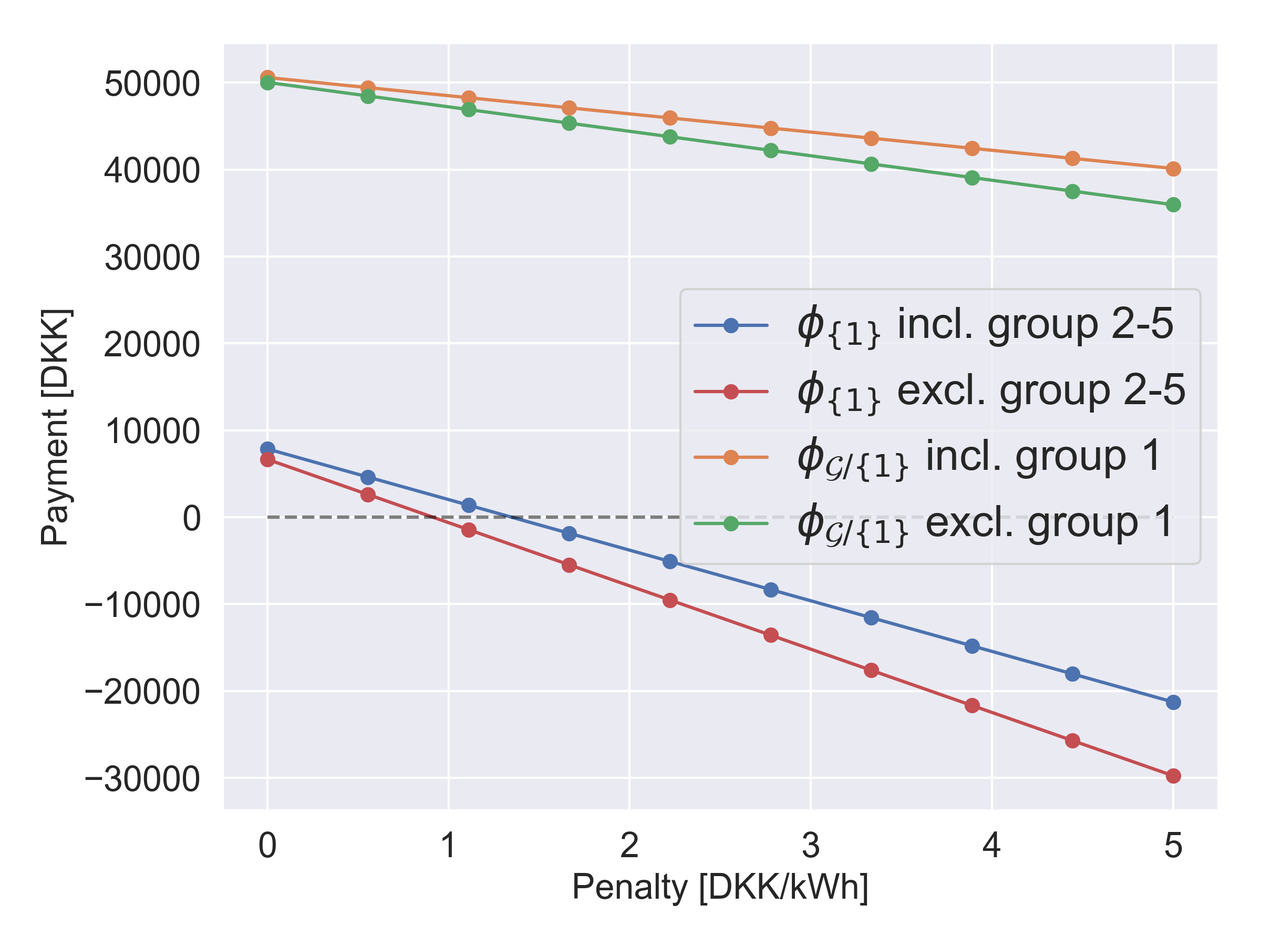
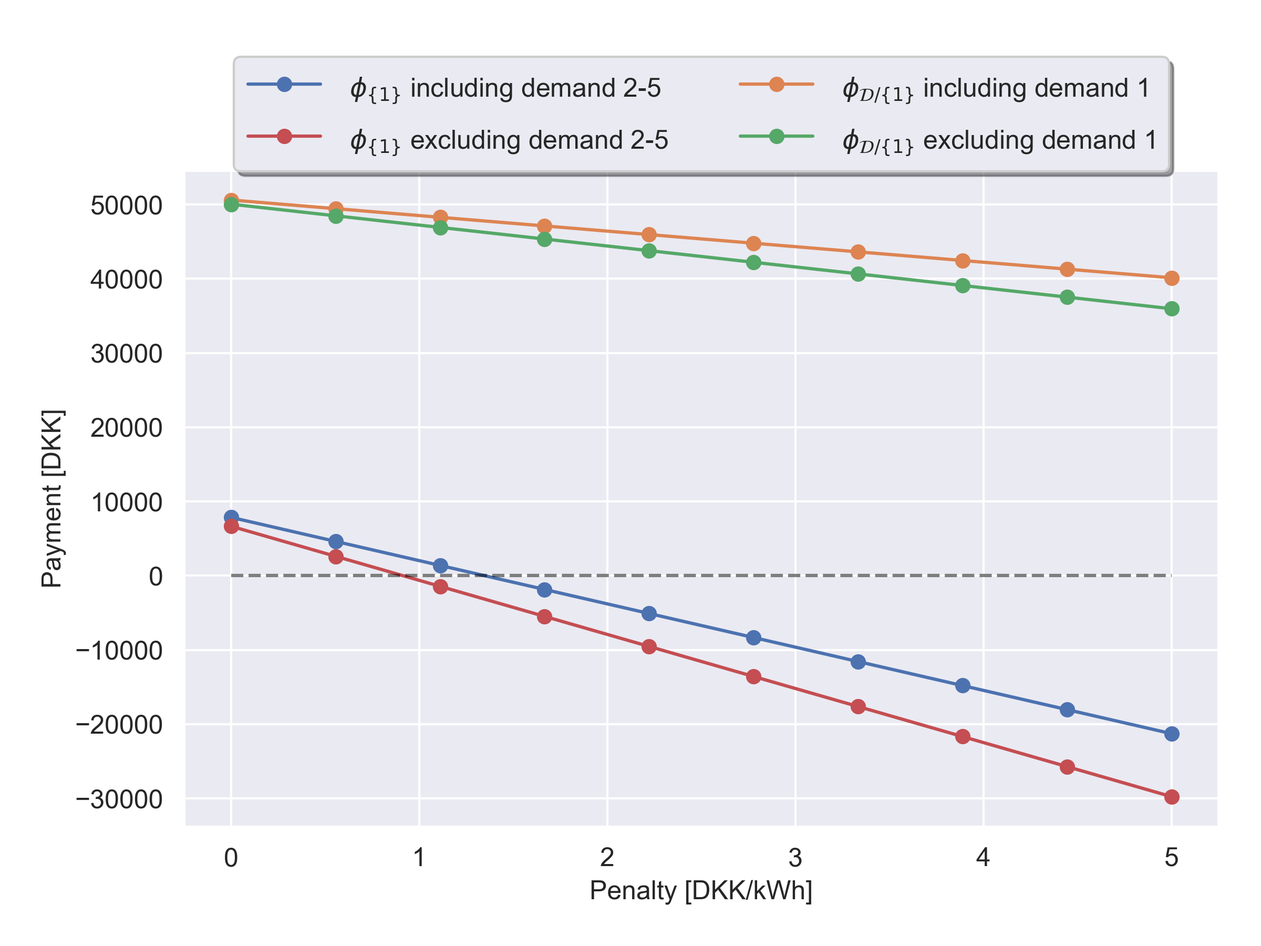
Updates from Overleaf

diff --git a/tex/ieee.tex b/tex/ieee.tex
@@ -81,7 +81,7 @@
 \subsection{Background}
 It has been extensively addressed in the literature how the aggregation of flexible demands can provide frequency-supporting ancillary services to the power system \cite{biegel2014value}, \cite{macdonald2020demand}. By ancillary services, we refer to various forms of reserves, booked by the Transmission System Operator (TSO) in advance, to activate them in the operational stage, if necessary. The key for ancillary service provision by the aggregation of flexible demands is the availability of a \textit{baseline forecast} of total consumption. The TSO should approve in advance the process adopted by the aggregation of demands for their baseline forecast. This has been prescribed in the official documentation of the Danish TSO, Energinet, issued for the pre-qualification of demand-side resources for ancillary service provision \cite{energinet:prequalification}.
 
-The aggregation of flexible demands is incentivized for at least two reasons: (\textit{i}) to meet the minimum bid size requirement, if existed, for ancillary service markets \cite{energinet:Systemydelser}, and (\textit{ii}) to unlock the potential \textit{synergy} among flexible demands. By synergy, we refer to operational circumstances under which the aggregation of flexible demands, compared to individual demands, may provide ancillary services with a higher level of reliability, i.e., a lower rate of delivery failure in the activation stage. By this, the whole aggregation is penalized less for their potential failure and paid more for their successful activation. We do not consider a case that, by aggregation, flexible demands may offer a larger volume of ancillary services. Hereafter, we refer to the aggregation of flexible demands as a \textit{coalition}, being operated by an \textit{aggregator}. Here, we consider that the aggregator represents the coalition, aiming to maximize the total profit of the coalition. The aggregator may charge flexible demands for its service, which is not part of this study.
+The aggregation of flexible demands is incentivized for at least two reasons: (\textit{i}) to meet the minimum bid size requirement, if existed, for ancillary service markets \cite{energinet:Systemydelser}, and (\textit{ii}) to unlock the potential \textit{synergy} among flexible demands. By synergy, we refer to operational circumstances under which the aggregation of flexible demands, compared to individual demands, may provide ancillary services with a higher level of reliability, i.e., a lower rate of delivery failure in the activation stage. By this, the whole aggregation is penalized less for their potential failure and paid more for their successful activation. We do not consider a case that, by aggregation, flexible demands may offer a larger volume of ancillary services. Hereafter, we refer to the aggregation of flexible demands as a \textit{coalition}, being operated by an \textit{aggregator}. Here, we consider that the aggregator represents the  coalition, and may charge flexible demands for its service, which is not part of this study.
 
 Several private initiatives for the provision of demand-side flexibility via forming coalitions  are currently taking place in Denmark. For example, IBM is developing their \textit{Flex Platform}, aiming to aggregate and control heterogeneous assets in  commercial and industrial sectors. The aggregated flexibility is then shaped as flexibility services to be sold in various ancillary service markets running by the TSO, among which the market for manual Frequency Restoration Reserve (mFRR), also known as tertiary reserve, has usually the largest trading volume. The collected profit is supposed to be allocated among flexible demands in a fair manner. In addition, flexible demands might be further incentivized by being informed about their contribution to the CO$_{2}$ savings.
 
@@ -114,11 +114,12 @@ Numerous studies in the literature explored important aspects of demand-side fle
 %
 Reference \cite{biegel2014value} investigates the value of flexible consumption but do not touch upon the synergy effect of a portfolio of assets, although it is mentioned that market barriers exist such as the minimum bidding size.
 %
-It has been shown in \cite{pedersen2014aggregation} how a portfolio of supermarkets can deliver a granular power response which is made possible by the number of supermarkets and their assets. Although it has not been explicitly mentioned, it refers to a form of synergy effect, because an aggregator requires a certain number of controllable assets to deliver a granular power response. However, the estimation and value of flexibility ex-ante is not tied together with any synergy effect. Note that  demand-side synergy is also known in other domains such as strategic and organizational diversification \cite{ye2012achieving}, but here we specifically address demand-side flexibility for ancillary services in power systems.
+It has been shown in \cite{pedersen2014aggregation} how a portfolio of supermarkets can deliver a granular power response which is made possible by the number of supermarkets and their assets. Although it has not been explicitly mentioned, it refers to a form of synergy effect, because an aggregator requires a certain number of controllable assets to deliver a granular power response. However, the estimation and value of flexibility ex-ante is not tied together with any synergy effect. Note that  demand-side synergy is also known in other domains, e.g., for strategic and organizational diversification \cite{ye2012achieving}, but here we specifically address demand-side flexibility for ancillary services in power systems.
 
 For the coalition of flexible demands, the baseline estimation is key, from which the aggregator estimates the flexible capacity, as prescribed by the Danish TSO \cite{energinet:prequalification}. Note that the coalition of flexible demands does not necessarily have an operational baseline schedule as a generation unit does \cite{gade2022ecosystem}.
 %
-In this work, we show how the baseline estimation becomes a more  straightforward task due to the synergy effect among assets within the coalition. In addition, it is important to estimate the baseline while being aware of potential counterfactual consumption when a flexible demand is activated. This problem has been studied extensively. Reference \cite{ziras2021baselines} explains why baselines are not necessarily suited for harnessing flexibility in the distribution grid, whereas \cite{capacity_limitation_services} instead shows how a mechanism based on capacity limitation services may work more successfully in practice. Nonetheless, for the TSO-level ancillary services aiming to instantaneously balance total production and total demand in the entire system, the baseline approach is generally adopted as a common practice. Some studies have proposed more innovative mechanisms as alternatives. For example,  \cite{muthirayan2019mechanism} proposes a mechanism by which the aggregator relies on self-reported baselines from individual flexible demands, removing the incentive to inflate baselines. In our setting, this is not straightforward to be implemented, since flexible demands have generally no capability or expertise to report their own baselines. Recall that flexible demands have their other primary business purposes, and prefer to not get involved in complicated mechanisms.
+In this work, we show how the flexibility provision becomes slightly less sensitive to the accuracy of the baseline estimation due to the synergy effect among assets within the coalition. 
+In addition, it is important to estimate the baseline while being aware of potential counterfactual consumption when a flexible demand is activated. This problem has been studied extensively. Reference \cite{ziras2021baselines} explains why baselines are not necessarily suited for harnessing flexibility in the distribution grid, whereas \cite{capacity_limitation_services} instead shows how a mechanism based on capacity limitation services may work more successfully in practice. Nonetheless, for the TSO-level ancillary services aiming to instantaneously balance total production and total demand in the entire system, the baseline approach is generally adopted as a common practice. Some studies have proposed more innovative mechanisms as alternatives. For example,  \cite{muthirayan2019mechanism} proposes a mechanism by which the aggregator relies on self-reported baselines from individual flexible demands, removing the incentive to inflate baselines. In our setting, this is not straightforward to be implemented, since flexible demands have generally no capability or expertise to report their own baselines. Recall that flexible demands have their other primary business purposes, and prefer to not get involved in complicated mechanisms.
 %Therefore, the aggregator has no incentive to inflate any of its flexible demands' baselines anyway. 
 %In this work, we only rely on baseline estimation on the coalition level. Then Shapley values \cite{shapley1997value} are used as a mechanism to allocate payments to flexible demands within the portfolio as opposed to using baseline forecasts per flexible demand.
 
@@ -144,22 +145,26 @@ Ancillary services including mFRR are exploited by the TSO to balance the power 
 For further details about mFRR, see  \cite{energinet:prequalification}, \cite{energinet:Systemydelser}, and \cite{energinet:tender_conditions_reserves}.
 
 \subsection{Simulation setup for the aggregator}
-We use historical mFRR market prices, balancing market prices, and spot (day-ahead) market prices from DK1 bidding zone (western Denmark) in 2022 \cite{energinet:energidataservice}, denoted by $\lambda_{h}^{\text{mFRR}}$, $\lambda_{h}^{\text{b}}$, and $\lambda_{h}^{\text{s}}$, respectively,  for every hour $h$. The constant penalty price for the failure in the activation stage is denoted by $\lambda^{\text{p}}$. We assume a daily time horizon, and run the simulation for all days in 2022. For simplicity, we do not consider potential sources of uncertainty.
+We use historical mFRR market prices, balancing market prices, and spot (day-ahead) market prices from DK1 bidding zone (western Denmark) in 2022 \cite{energinet:energidataservice}, denoted by $\lambda_{h}^{\text{mFRR}}$, $\lambda_{h}^{\text{b}}$, and $\lambda_{h}^{\text{s}}$, respectively,  for every hour $h$. The constant penalty price for the failure in the activation stage is denoted by $\lambda^{\text{p}}$. %We assume a daily time horizon, and run the simulation for all days in 2022. 
+%For simplicity, we do not consider potential sources of uncertainty.
 
-At the stage that the hourly baseline consumption forecasts $P^{\text{Base}}_{h}$ of the collation are given, the objective function of the aggregator is to maximize the total profit for the coalition, which can be mathematically formulated as
+In the reservation stage, e.g., in day $D$-1, we assume that the aggregator considers the current consumption pattern of the coalition as the power baseline $P^{\text{Base}}_{h}$ for the next day  and bids capacity $p^{\text{mFRR}}_{h}$ to the mFRR market. This reserve will be  activated by the TSO the day after, if needed. In the activation stage, i.e., in day $D$, the true consumption pattern might be different than the baseline, i.e., the consumption pattern of the previous day. Therefore, if the mFRR reserve is activated, indicated by a balancing price higher than the spot price, the coalition may fail in successfully delivering the promised up-regulation (i.e., load reduction). For example, assume in day $D$-1 the coalition has promised a mFRR capacity of 20 kW for a specific hour of the next day. However, in that hour of day $D$, their consummation might be below 20 kW, therefore if activated, the coalition could not deliver the service. The profit of the coalition can be  calculated as
 %
 \begin{align}\label{eq:mFRRObjective}
-     &  - \underbrace{\sum_{h=1}^{24} \lambda^{\text{s}}_{h}P^{\text{Base}}_{h}}_{\textrm{Energy cost}} + \underbrace{\sum_{h=1}^{24}\lambda_{h}^{\text{mFRR}} p^{\text{mFRR}}_{h}}_{\textrm{Reservation payment}}  \notag \\ & \quad \quad + \underbrace{\sum_{h=1}^{24}  \lambda_{h}^{\text{b}} p^{\text{b},\uparrow}_{h}}_{\textrm{Activation payment}} - \underbrace{\sum_{h=1}^{24}  \lambda_{h}^{\text{b}} p^{\text{b},\downarrow}_{h}}_{\textrm{Rebound cost}} - \underbrace{ \sum_{h=1}^{24}  \lambda^{\text{p}}s_{h}}_{\textrm{Penalty cost}}
+     &  - \underbrace{\sum_{h=1}^{24} \lambda^{\text{s}}_{h}P^{\text{Base}}_{h}}_{\textrm{Energy cost}} + \underbrace{\sum_{h=1}^{24}\lambda_{h}^{\text{mFRR}} p^{\text{mFRR}}_{h}}_{\textrm{Reservation payment}}  \notag \\ & \quad \quad + \underbrace{\sum_{h=1}^{24}  \lambda_{h}^{\text{b}} p^{\text{b},\uparrow}_{h}}_{\textrm{Activation payment}} - \underbrace{\sum_{h=1}^{24}  \lambda_{h}^{\text{b}} p^{\text{b},\downarrow}_{h}}_{\textrm{Rebound cost}} - \underbrace{ \sum_{h=1}^{24}  \lambda^{\text{p}}s_{h}.}_{\textrm{Penalty cost}}
 \end{align}
-where Greek and upper-case symbols represent parameters, while lower-case symbols are variables. The objective function includes the energy cost for purchasing baseline demands $P^{\text{Base}}_{h}$ at spot prices $\lambda^{\text{s}}_{h}$, the reservation payment by selling mFRR services $p^{\text{mFRR}}_{h}$ at mFRR market prices $\lambda_{h}^{\text{mFRR}}$, the activation payment for up-regulations (i.e., load reduction) $p^{\text{b},\uparrow}_{h}$ at balancing prices $\lambda_{h}^{\text{b}}$, the rebound cost by extra consumption $p^{\text{b},\downarrow}_{h}$ at balancing prices $\lambda_{h}^{\text{b}}$, and finally the penalty cost, incurred by the up-regulation not delivered $s_{h}$, penalized at the constant price $\lambda^{\text{p}}$. %Note that the first term (energy cost) is fixed and can be excluded from the objective function, however, we have included it for illustration purposes. 
+
+Accordingly, the profit of the coalition includes the energy cost for purchasing baseline demands $P^{\text{Base}}_{h}$ at spot prices $\lambda^{\text{s}}_{h}$, the reservation payment by selling mFRR services $p^{\text{mFRR}}_{h}$ at mFRR market prices $\lambda_{h}^{\text{mFRR}}$, the activation payment for up-regulations (i.e., load reduction) $p^{\text{b},\uparrow}_{h}$ at balancing prices $\lambda_{h}^{\text{b}}$, the rebound cost by extra consumption $p^{\text{b},\downarrow}_{h}$ at balancing prices $\lambda_{h}^{\text{b}}$, and finally the penalty cost, incurred by the up-regulation not delivered $s_{h}$, penalized at the constant price $\lambda^{\text{p}}$. Note that the first two terms, i.e., the energy cost and the reservation payment, realize in day $D$-1 according to the baseline. However, the remaining three terms are calculated in day $D$ based on the true consumption pattern and the TSO activation.
+
+%Note that the first term (energy cost) is fixed and can be excluded from the objective function, however, we have included it for illustration purposes. 
 
 %where the first term (energy cost) is fixed 
 %Here, $p^{\text{mFRR}}_{h}$ is the hourly mFRR capacity of the aggregator portfolio, $p_{h}^{\text{b},\uparrow}$ is the real-time up-regulation, $p_{h}^{\text{b},\downarrow}$ is the rebound, $s_{h}$ is the energy not delivered, and $p^{\text{Base}}$ the normal operational baseline consumption.
 
-For the sake of simplicity, we ignore the potential rebound effect of flexible demands by enforcing $p_{h}^{\text{b}, \downarrow} = 0, \ \forall{h}$. In addition, the energy cost is constant and can be removed from \eqref{eq:mFRRObjective}. Therefore, we rewrite the objective function as
+For the sake of simplicity, we ignore the potential rebound effect of flexible demands by enforcing $p_{h}^{\text{b}, \downarrow} = 0, \ \forall{h}$. In addition, the energy cost is constant and can be removed from \eqref{eq:mFRRObjective}. Therefore, we rewrite the profit as
 %
 \begin{align}\label{eq:mFRR_profit}
-     & \underset{p^{\text{mFRR}}_{h}, p^{\text{b},\uparrow}_{h}, s_{h}}{\rm{maximize}} \ \underbrace{\sum_{h=1}^{24}\lambda_{h}^{\text{mFRR}} p^{\text{mFRR}}_{h}}_{\textrm{Reservation payment}} + \underbrace{\sum_{h=1}^{24}  \lambda_{h}^{\text{b}} p^{\text{b},\uparrow}_{h}}_{\textrm{Activation payment}} - \underbrace{ \sum_{h=1}^{24}  \lambda^{\text{p}}s_{h}}_{\textrm{Penalty cost}}
+     & \underbrace{\sum_{h=1}^{24}\lambda_{h}^{\text{mFRR}} p^{\text{mFRR}}_{h}}_{\textrm{Reservation payment}} + \underbrace{\sum_{h=1}^{24}  \lambda_{h}^{\text{b}} p^{\text{b},\uparrow}_{h}}_{\textrm{Activation payment}} - \underbrace{ \sum_{h=1}^{24}  \lambda^{\text{p}}s_{h}.}_{\textrm{Penalty cost}}
 \end{align}
 
 %The challenge for the aggregator in eq. (\ref{eq:mFRR_profit}) is therefore two-fold: 1) $p^{\text{mFRR}}_{h}$ must be estimated and 2) $s_{h}$ should be minimized.
@@ -168,7 +173,7 @@ In reality, there is a bidding process for both capacity and up-regulation, howe
 
 %\subsection{Demand-side assets}
 
-In \eqref{eq:mFRR_profit}, variables $p^{\text{mFRR}}_{h}$, $p^{\text{b},\uparrow}_{h}$, and $s_{h}$ correspond to the whole coalition. Each asset $i$ in the coalition has its own baseline for power consumption, $p_{h, i}$ $\forall{i} \in \mathcal{I}$, such that
+In \eqref{eq:mFRR_profit}, $p^{\text{mFRR}}_{h}$, $p^{\text{b},\uparrow}_{h}$, and $s_{h}$ correspond to the whole coalition. Each asset $i$ in the coalition has its own baseline for power consumption, $p_{h, i}$ $\forall{i} \in \mathcal{I}$, such that
 %
 \begin{subequations} \label{con}
     \begin{align}
@@ -178,13 +183,13 @@ In \eqref{eq:mFRR_profit}, variables $p^{\text{mFRR}}_{h}$, $p^{\text{b},\uparro
     \end{align}
 \end{subequations}
 %
-By this, the variable set of the optimization problem \eqref{eq:mFRR_profit}-\eqref{con} is extended to $p^{\text{mFRR}}_{h, i}$, $p^{\text{b}, \uparrow}_{h, i}$, $s_{h, i}$, $p^{\text{mFRR}}_{h}$, $p^{\text{b},\uparrow}_{h}$, and $s_{h}$.
+%By this, the variable set of the optimization problem \eqref{eq:mFRR_profit}-\eqref{con} is extended to $p^{\text{mFRR}}_{h, i}$, $p^{\text{b}, \uparrow}_{h, i}$, $s_{h, i}$, $p^{\text{mFRR}}_{h}$, $p^{\text{b},\uparrow}_{h}$, and $s_{h}$.
 
 
 %An asset is defined as any power consuming device\footnote{This including batteries in principle, but these are ignored here.} such as a heat pump, freezer, ventilation system, air condition unit, or boiler, etc. The aggregator can also have high-consuming assets such as a zinc galvanizing furnace, a swimming pool, waste-water centrifugation units, etc.
 
 \subsection{Modeling individual baselines and quantifying the synergy}
-For simplicity, we consider homogeneous assets that are supposed to consume 1 kW in one hour of the day, and do not consume any power during the rest of the day. An example for such an asset is a ventilation unit. We uniformly distribute assets with 1-hour 1-kW consumption over the day, such that the baseline forecast $p_{h, i}$ for asset $i$ in hour $h$ is defined as
+For simplicity, we consider homogeneous assets that are supposed to consume 1 kW in one hour of the day, and do not consume any power during the rest of the day. An example for such an asset is a ventilation unit with on/off control. We uniformly distribute assets with 1-hour 1-kW consumption over the day, such that the baseline forecast $p_{h, i}$ for asset $i$ in hour $h$ is defined as
 %
 \begin{align}\label{eq:uniform}
     p_{h,i} \thinspace = \begin{cases}
@@ -203,7 +208,7 @@ This is a stylized example as most assets have some degree of predictability, bu
 Given the profit definition as in \eqref{eq:mFRR_profit}, the synergy effect of the coalition can be quantified as
 %
 \begin{align}\label{eq:synergy_effect}
-    \text{Synergy effect [\%]} = \frac{ \text{Coalition profit} }{ \sum_{i \in \mathbb{I}} \text{Asset \textit{i}'s profit} }
+    \text{Synergy effect} = \frac{ \text{Coalition profit} }{ \sum_{i \in \mathbb{I}} \text{Asset \textit{i}'s profit} }
 \end{align}
 where the synergy effect is simply defined as the ratio between the coalition profit and the sum of individual asset profits. The difference between the two will be due to the activation payment and the penalty cost, as the reservation payments are the same.
 
@@ -228,20 +233,26 @@ where $\mathcal{S}$ represents every possible non-empty subset of the coalition,
 %Here, $v$ is simply the profit in eq. (\ref{eq:mFRR_profit}). Thus, $v(\mathcal{S})$ represents the value of mFRR bidding for the portfolio of flexible demands given by the coalition $\mathcal{S}$. The value of the grand coalition, i.e., the whole portfolio is given by $v(\mathcal{G}) = \sum_{g \in \mathcal{G}} \phi_{g}$.
 
 The Shapley value  in \eqref{eq:shap} can be thought of as the average marginal contribution of the flexible demand $d$ across all possible coalitions in $\mathcal{D}$. It can only be computed exactly for a relatively small number of flexible demands, as the number of  possible non-empty coalitions is equal to $2^{|\mathcal{D}|} - 1$. In this paper, we consider 5 demands, ending up in 31 possible coalitions. The Shapley values can be approximated when $|\mathcal{D}|$ grows \cite{castro2009polynomial}.
-Note that the Shapley mechanism has desirable economic properties such as individual rationality (see Section \ref{chapter3}) and budget balance.
+Note that the Shapley mechanism has desirable economic properties such as individual rationality  and budget balance.
 
 %Using Shapley values, the aggregator have a fair mechanism for the payment allocation. If one flexible demand has assets that marginally contribute with limited flexibility, it will be reflected in their Shapley value. For example, a flexible demand can have a relatively small portfolio of assets. More interestingly, a flexible demand can have many high-consuming assets that for some reason are not up-regulating when needed (as illustrated in Section \ref{section3}). Using Shapley values, the aggregator can ex-post determine how much such a flexible demand contributes with. Otherwise, that can be difficult to estimate for the aggregator due to the benefit of reserve payment versus risk of not being able to up-regulate.
 
 
 
-\section{Results}\label{chapter3}
-
-\subsection{Input data}\label{chapter3}
+\section{Simulation Results}\label{chapter3}
+%
+%\subsection{Input data}
 %In this section, we first show the assets being simulated and the flexible demands (groups) within the aggregated portfolio. Then results for the synergy effect is shown when the number of assets in the portfolio increases. Afterwards, we consider the payment allocation to flexible demands and investigate the impact of a flexible provider not delivering any up-regulation but only capacity.
 
 %\subsection{Visualization of groups and assets}
 
-We consider five flexible demands with 1000 assets in total. Each asset consumes 1 kW in one hour of the day, and nothing in the remaining hours. Figure \ref{fig:assets} shows the  consumption portfolio for a sample day, where 1000 assets, according to \eqref{eq:uniform}, are uniformly distributed among 24 hours. We run our simulation over 233 days with the same assets and ownership to five demands, however the daily consumption pattern  may differ.  Figure \ref{fig:prices}  illustrates the mFRR market prices $\lambda^{\text{mFRR}}_h$ as well as balancing market prices $\lambda^{\text{b}}_h$ and spot (day-ahead) market prices $\lambda^{\text{s}}_h$ for the first 233 days of 2022 in DK1. The penalty price $\lambda^{\text{p}}$ is fixed to 0.1 DKK/kWh. 
+We consider a coalition of five flexible demands, i.e., $\mathcal{D}=\{d_1, d_2, d_3, d_4, d_5\}$, with 1000 identical assets in total. Each asset  consumes 1 kW in one hour of the day, and nothing in the remaining hours. By an on/off control, the consumption  reduces from 1 kW to zero. Figure \ref{fig:assets} shows the  consumption portfolio for a sample day, where 1000 assets, according to \eqref{eq:uniform}, are uniformly distributed among 24 hours. 
+
+We run our simulation over 233 days with the same assets and ownership to five demands, however the daily consumption pattern  may differ. As mentioned in Section \ref{chapter3}, the consumption in one day is considered as the baseline for the next day, while the true consumption pattern in the next day might be different. The is the reason the coalition may fail in successfully delivering the mFRR services, if activated. In particular, this happens if the aggregator has over-promised in the reservation stage, while in the activation stage the consumption level is comparatively lower. We will show in this section that, owed to the synergy effect, in case of a coalition with a comparatively higher number of assets it is less likely that the aggregator fail to deliver the service.   
+
+Figure \ref{fig:prices}  illustrates the mFRR market prices $\lambda^{\text{mFRR}}_h$ as well as balancing market prices $\lambda^{\text{b}}_h$ and spot (day-ahead) market prices $\lambda^{\text{s}}_h$ for the first 233 days of 2022 in DK1. The mFRR service is activated by the TSO in every hour $h$ if $\lambda^{\text{b}}_h > \lambda^{\text{s}}_h$. 
+The penalty price $\lambda^{\text{p}}$ is fixed to 0.1 DKK/kWh. All source codes and input data are
+publicly shared in \cite{code}.
 
 %It is almost uniform and fairly predictable where each group is less predictable and each asset within each group even more so. The aggregated distribution approaches a uniform distribution as the number of assets increases.
 
@@ -252,7 +263,7 @@ We consider five flexible demands with 1000 assets in total. Each asset consumes
     \label{fig:assets}
 \end{figure}
 
-\begin{figure}[b]
+\begin{figure}[t]
     \centering
     \includegraphics[width=\columnwidth]{figures/prices.png}
     \caption{Spot market prices ($\lambda^{\text{s}}_h$), balancing market prices ($\lambda^{\text{b}}_h$), and mFRR market prices ($\lambda^{\text{mFRR}}_h$)  over the first 233 days of 2022 in DK1.}
@@ -261,49 +272,44 @@ We consider five flexible demands with 1000 assets in total. Each asset consumes
 
 
 
-\subsection{Synergy quantification}
+%\subsection{Synergy quantification}
 
-Figure \ref{fig:synergy_effect} shows the simulation of the synergy effect using eq. (\ref{eq:uniform}) and
-eq. (\ref{eq:synergy_effect}) for up to 1000 assets. Even with such uncertain assets, it only takes around 150 of these before the synergy effect flattens. In reality, much fewer assets are then needed to estimate their reserve capacity due to many real-life assets having a more predictable consumption than here..
+Figure \ref{fig:synergy_effect} shows the simulation results, where the synergy effect, as defined in \eqref{eq:synergy_effect}, is quantified for an increasing number of assets, up to 1000. Even with such uncertain assets, it only takes around 400 assets to get the synergy effect curve flattened around 1.9. 
+%In reality, much fewer assets are then needed to estimate their reserve capacity due to many real-life assets having a more predictable consumption than here..
 
-As discussed already, this of course ignores the synergy effect of controlling assets \textit{within} each hour to deliver a proper response. This probably requires a significant number of assets if all of them are ON/OFF controlled and if they are very heterogenous.
+%As discussed already, this of course ignores the synergy effect of controlling assets \textit{within} each hour to deliver a proper response. This probably requires a significant number of assets if all of them are ON/OFF controlled and if they are very heterogenous.
 
-\begin{figure}[t]
+\begin{figure}[b]
     \centering
     \includegraphics[width=\columnwidth]{figures/synergy_effect.png}
-    \caption{Simulation of the impact on the synergy effect by increasing the number of assets. The rolling mean shows the average of the past 40 values.}
+    \caption{Simulation results: The synergy effect by increasing the number of assets. The rolling mean shows the average of the past 40 point values.}
     \label{fig:synergy_effect}
 \end{figure}
 
-\subsection{Payment allocation}
+%\subsection{Payment allocation}
 
-Figure \ref{fig:shapley_values} shows the Shapley values for a simulation with $M = 5$, and where $g = 1$ has assets that never up-regulates and only contributes with their reserve capacity (which can never be utilized). The simulation is run for increasing values of the penalty parameter, $\lambda^{\text{p}}$.
+Figure \ref{fig:shapley_values} shows the Shapley values (payments) in a simulation of an extreme case, wherein the flexible demand $d_1$ always fails in the activation stage. In other words, the assets of $d_1$ never up-regulate and only contribute to the coalition with their reserve capacity (which can never be utilized). We run the simulation for an increasing value of the penalty price $\lambda^{\text{p}}$.
+This figure shows that $d_1$ by being within the coalition gets a non-negative payment when $\lambda^{\text{p}} < 1.5$. This is explained by the price data and how often the TSO calls for an activation (recall it happens when $\lambda^{\text{b}} > \lambda^{\text{s}}$). If the power grid would need more up-regulation services, we could expect $d_1$ loses money with penalty prices even lower than 1.5 DKK/kWh. The orange curve shows the payment to $\mathcal{D} / \{d_1\}$, i.e., to the aggregation of four demands $d_2$ to $d_5$, when the coalition includes $d_1$, whereas the green curve shows the same payment when $d_1$ was not a member of the coalition. The difference of these two curves shows that  $\mathcal{D} / \{d_1\}$ benefits from having $d_1$ in the coalition, even though $d_1$ gets negative payments. Hence, $\mathcal{D} / \{d_1\}$ is better off with $d_1$ in the coalition. 
+Similarly, the comparison of blue and red curves shows that $d_1$ also prefers to be part of the coalition by getting paid more (or paying less back). This shows all demands prefer to stay in the coalition. 
 
-Interestingly, it shows that $g_1$ actually contribute positively to the portfolio when $\lambda^{\text{p}} < 1.5$. This is simply explained by the price data and how often actual up-regulation is needed (which happens when $\lambda^{\text{b}} > \lambda^{\text{s}}$). If the power grid would need much more up-regulation, the cutoff for $\lambda^{\text{p}}$ would be lower.
-
-The green and orange lines show individual rationality for coalition $G / \{1\}$. The orange line shows the total payment to $G / \{1\}$ when $g_1$ is included in the coalition, and the green line shows the total payment to $G / \{1\}$ when $g_1$ is \textit{not} included in the coalition. Intriguingly, it shows that $G / \{1\}$ benefits from having $g_1$ in the coalition even though $g_1$ gets negative payments. Hence, $G / \{1\}$ is better off with $g_1$ in the coalition.
-
-Furthermore, $g_1$ also has individual rationality as seen by comparing the blue and red line. By being part of the grand coalition, $g_1$ gets paid more (or has to pay less back).
-
-This readily illustrates individual rationality and the synergy effect of more flexible demands using Shapley values.
+%This readily illustrates individual rationality and the synergy effect of more flexible demands using Shapley values.
 
 
 \begin{figure}[!t]
     \centering
     \includegraphics[width=\columnwidth]{figures/shapley_values.png}
-    \caption{Simulation of the impact on Shapley values of the penalty price for not delivering promised capacity during up-regulation events. $g_1$ has assets with similar power consumption to $g_{2\hdots 5}$ but never up-regulates. The orange line shows payment to $G / \{1\}$ for the grand coalition, and the green line show payments to them if $g_1$ were not a part of the grand coalition. Likewise, the blue and red lines show payments to $g_1$ when participating in the grand coalition and on its own, respectively.}
+    \caption{Simulation results: The impact of the penalty price $\lambda^{\text{p}}$ on
+    Shapley values (payments). The orange curve shows the payment to $\mathcal{D} / \{d_1\}$, whereas the green curve shows the same payment if $d_1$ was not a member of the coalition. Likewise, the blue and red curves show the payment to $d_1$ when being a member of the coalition  and when being on its own, respectively.}
     \label{fig:shapley_values}
 \end{figure}
 
 
-\section{Conclusion and Future Work}
+\section{Conclusion}
 \label{chapter4}
 
-This paper demonstrated the synergy effect of a portfolio of uncertain demand-side assets in terms of numbers in the context of mFRR bidding. Furthermore, flexible demands within an aggregator portfolio, each with such uncertain assets, can be paid fairly using Shapley values. Our simulation showed that flexible demands have individual rationality and thus an incentive to participate in the portfolio as opposed to act on their own. Moreover, a flexible demand that never up-regulates was shown to contribute to the portfolio and get a positive payment when the penalty price for not delivering promised flexibility was low.
+This paper illustrated the synergy effect of a coalition of flexible demands, and quantified it in terms of the number of assets bidding to the mFRR market. We also discussed how flexible demands can be fairly paid ex-post using Shapley values. By this, our simulation results showed that all flexible demands are incentivized to stay in the coalition, as opposed to acting on their own. %Moreover, a flexible demand that never up-regulates was shown to contribute to the portfolio and get a positive payment when the penalty price for not delivering promised flexibility was low.
 
-In this paper, two stylized examples of the same \textit{type} of assets were presented. However, one can also imagine a synergy effect across different types of assets so diversification of the portfolio provides a synergy effect. Hence, dissimilar assets can complement each other. One recent example of this could be Photovoltaic parks providing frequency services in conjunction with batteries or electrolysers increasing profits in synergy with a wind mill and/or batteries.
-
-Moreover, as the number of flexible demands increase, approximate Shapley values must be used. It is interesting to explore how this impacts the fairness and distribution of payments.
+As potential directions for the future work, it is of interest to also consider dissimilar assets, seeing the heterogeneity as a further degree of freedom for further unlocking potential synergy. One could hypothesize that dissimilar assets can further complement each other in terms of flexibility provision. One relevant example could be photovoltaic parks equipped with batteries and/or electrolyzers, providing various frequency services. Moreover, as the number of flexible demands increases, approximate Shapley values must be used. It is interesting to explore how it impacts the fairness and distribution of payments.
 
 \bibliographystyle{IEEEtran}
 % \bibliography{tex/bibliography/Bibliography}
